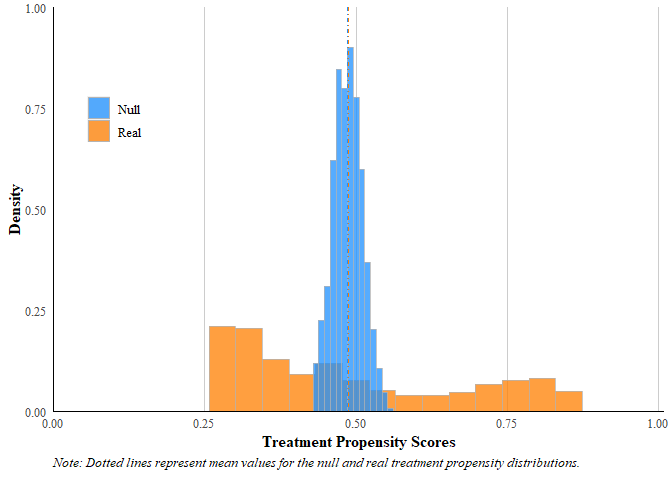
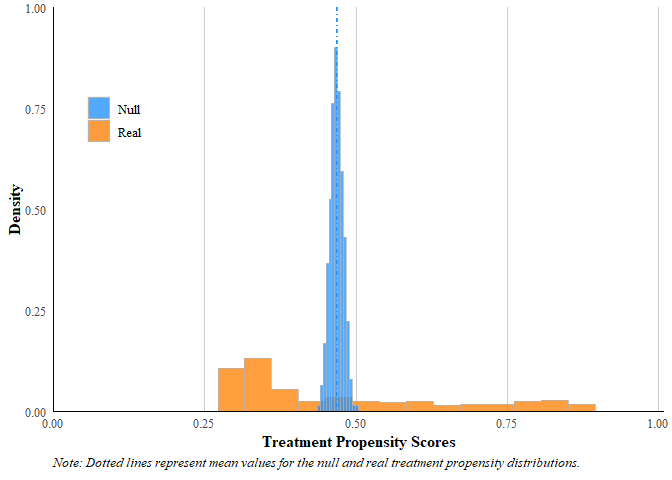
Editing descriptive details

Changed region(s): [[0.3125, 0.0625, 0.9062, 0.875]]

diff --git a/README.md b/README.md
@@ -1,21 +1,23 @@
 
-<!-- README.md is generated from README.Rmd. Please edit that file -->
-
-# MLbalance
+# MLbalance (alpha version)
 
 <!-- badges: start -->
+
+use_lifecycle_badge(“experimental”)
+
 <!-- badges: end -->
 
 MLbalance implements a novel machine learning balance test, the balance
 permutation test, for experiments with binary, multiarm, and continuous
 treatments. The purpose of this test is to detect failures of random
 assignment and imbalance across treatment arms. For more detail, see
-Rametta and Fuller (2023).
+Rametta and Fuller (2023). This package is in alpha, any recommendations
+or comments welcome in the issues section.
 
 ## Installation
 
 You can install the development version of MLbalance from
-[GitHub](https://github.com/) with:
+[GitHub](https://github.com/CetiAlphaFive/MLbalance) with:
 
 ``` r
 # install.packages("devtools")
@@ -28,19 +30,22 @@ remotes::install_github("CetiAlphaFive/MLbalance")
 pak::pak("CetiAlphaFive/MLbalance")
 ```
 
+Future stable versions will be available on CRAN and also on Github
+here:
+
+``` r
+devtools::install_github("samjfuller/MLbalance)
+```
+
 ## Binary Treatment Example
 
 Here is a basic example demonstrating the balance permutation test on a
-simulated binary treatment DGP.
+simulated binary treatment DGP with multidimensional contamation of the
+treatment assignment.
 
 ``` r
 # install.packages("randomizr")
 library(MLbalance)
-#> 
-#> Attaching package: 'MLbalance'
-#> The following object is masked from 'package:utils':
-#> 
-#>     vi
 #
 # Simple simulation 
 n <- 1000
@@ -64,19 +69,23 @@ r.check <- random_check(W_real = df$w_real, #real treatment assignment vector
 #> 
 #> W_real
 #>   0   1 
-#> 515 485 
+#> 532 468 
 #> W_sim
 #>   0   1 
-#> 515 485 
+#> 532 468 
 #> 
 #> 
 #> Result from difference in variances test (one-sided, greater F-test):
 #> 
 #>  Statistic p.val Result
-#>   61.13291     0   FAIL
+#>   289.1579     0   FAIL
 #> 
 #> 
 #> Check diff.var.result in saved output for detailed test result.
 ```
 
 <img src="man/figures/README-unnamed-chunk-2-1.png" width="100%" />
+
+``` r
+# to see variables important for predicting assignment, check r.check$imp.predictors 
+```
